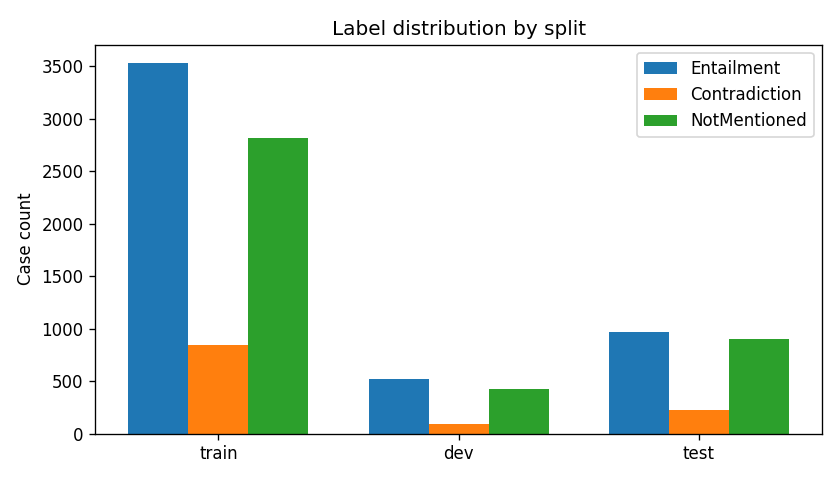
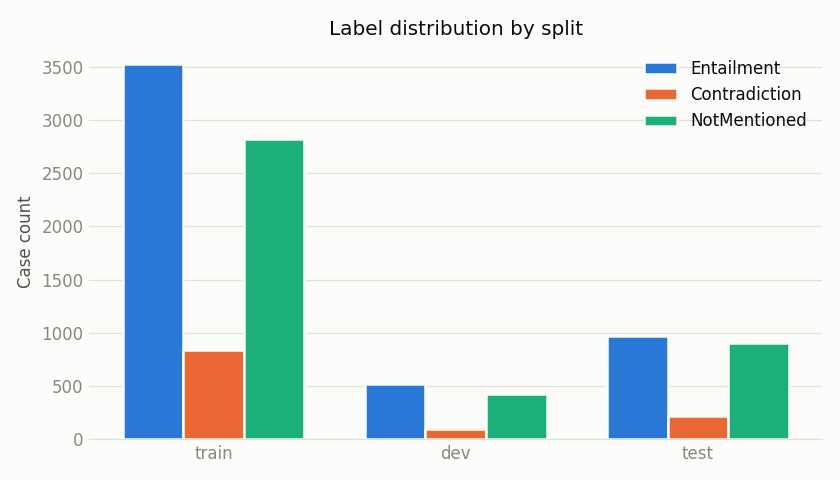
Extract chart styling into pipeline/viz_style.py, shared across all notebooks
Pulls the categorical palette, sequential hue, ink/gridline colors, and
axis-styling helpers out of the data-validation notebook into a single
importable module. Every future notebook (Oracle, retrieval, RAG, agent,
architecture selection) imports from here instead of redefining colors,
so every chart in the project reads as one consistent system. Palette is
the dataviz skill's validated default (categorical slots 1-3: blue/orange/
aqua, CVD-safe for <=3 series).

Changed region(s): [[0.0, 0.0312, 0.9905, 0.9688]]

diff --git a/pipeline/viz_style.py b/pipeline/viz_style.py
@@ -1,0 +1,89 @@
+"""
+Shared chart styling template for all NDATrace notebooks and reports.
+
+Every notebook that plots a chart should import from here rather than
+redefining colors inline, so every figure in the project reads as one
+system. Palette follows the dataviz skill's validated default: categorical
+slots 1-3 (blue/orange/aqua) pass the CVD-safety all-pairs check for <=3
+series; the sequential ramp is the same blue hue, light->dark.
+
+Usage in a notebook:
+
+    from pipeline.viz_style import CATEGORICAL, SEQUENTIAL_HUE, apply_style, style_axes
+
+    apply_style()  # once, near the top of the notebook
+
+    fig, ax = plt.subplots()
+    ax.bar(x, y, color=CATEGORICAL["Entailment"])
+    style_axes(ax)
+"""
+
+from __future__ import annotations
+
+import matplotlib as mpl
+
+# --- Chart chrome & ink (light mode) ---
+INK_PRIMARY = "#0b0b0b"
+INK_SECONDARY = "#52514e"
+INK_MUTED = "#898781"
+GRIDLINE = "#e1e0d9"
+SURFACE = "#fcfcfb"
+
+# --- Categorical palette (fixed slot order - never cycle, never remap by meaning) ---
+# Add new series to the END of this dict in a fixed order; do not reorder
+# existing entries once a chart has shipped with them.
+CATEGORICAL_SLOTS = ["#2a78d6", "#eb6834", "#1baf7a", "#eda100", "#e87ba4", "#008300", "#4a3aa7", "#e34948"]
+
+# Domain-specific fixed assignment for the three NDA classification labels,
+# shared by every chart that plots them (notebooks 01, 05, 06, 08, ...).
+CATEGORICAL = {
+    "Entailment": CATEGORICAL_SLOTS[0],    # slot 1 - blue
+    "Contradiction": CATEGORICAL_SLOTS[1],  # slot 2 - orange
+    "NotMentioned": CATEGORICAL_SLOTS[2],   # slot 3 - aqua
+}
+
+# Single-hue sequential ramp for magnitude encodings (histograms, heatmaps).
+SEQUENTIAL_HUE = CATEGORICAL_SLOTS[0]  # slot 1 blue
+
+# Status colors - reserved for actual pass/fail/warn states, never series identity.
+STATUS = {
+    "good": "#0ca30c",
+    "warning": "#fab219",
+    "serious": "#ec835a",
+    "critical": "#d03b3b",
+}
+
+
+def apply_style() -> None:
+    """Apply shared rcParams. Call once per notebook, before plotting."""
+    mpl.rcParams.update({
+        "figure.facecolor": SURFACE,
+        "axes.facecolor": SURFACE,
+        "axes.edgecolor": GRIDLINE,
+        "axes.labelcolor": INK_SECONDARY,
+        "axes.titlecolor": INK_PRIMARY,
+        "axes.grid": True,
+        "axes.axisbelow": True,
+        "grid.color": GRIDLINE,
+        "grid.linewidth": 0.8,
+        "xtick.color": INK_MUTED,
+        "ytick.color": INK_MUTED,
+        "text.color": INK_PRIMARY,
+        "font.family": "sans-serif",
+        "legend.frameon": False,
+    })
+
+
+def style_axes(ax) -> None:
+    """Recessive spines/grid per the dataviz skill's mark specs. Call per-axes."""
+    ax.spines["top"].set_visible(False)
+    ax.spines["right"].set_visible(False)
+    ax.spines["left"].set_visible(False)
+    ax.grid(axis="y", zorder=0)
+    ax.grid(axis="x", visible=False)
+    ax.tick_params(length=0)
+
+
+def savefig_kwargs() -> dict:
+    """Common kwargs for plt.savefig() so exported PNGs keep the surface color."""
+    return {"dpi": 120, "facecolor": SURFACE}
